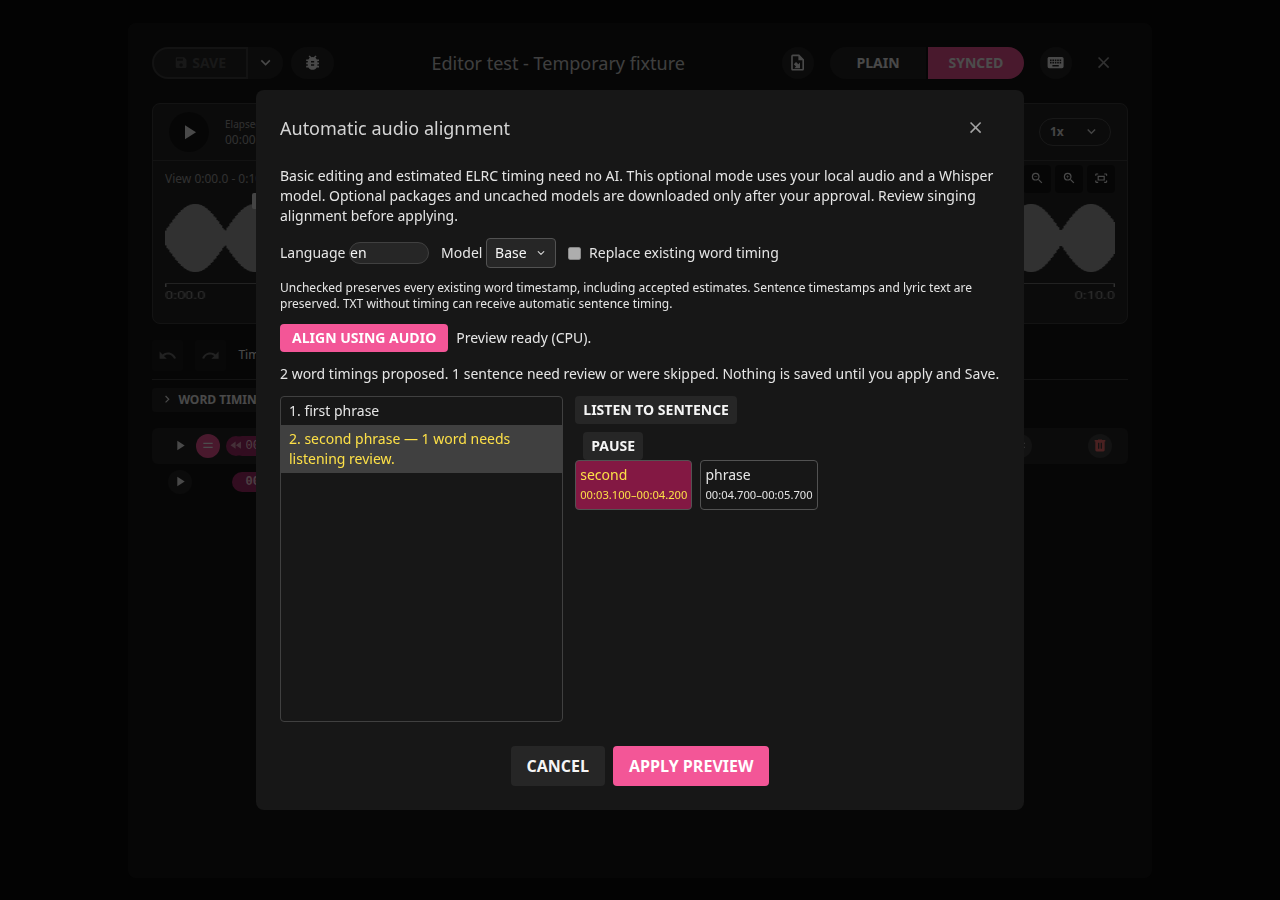
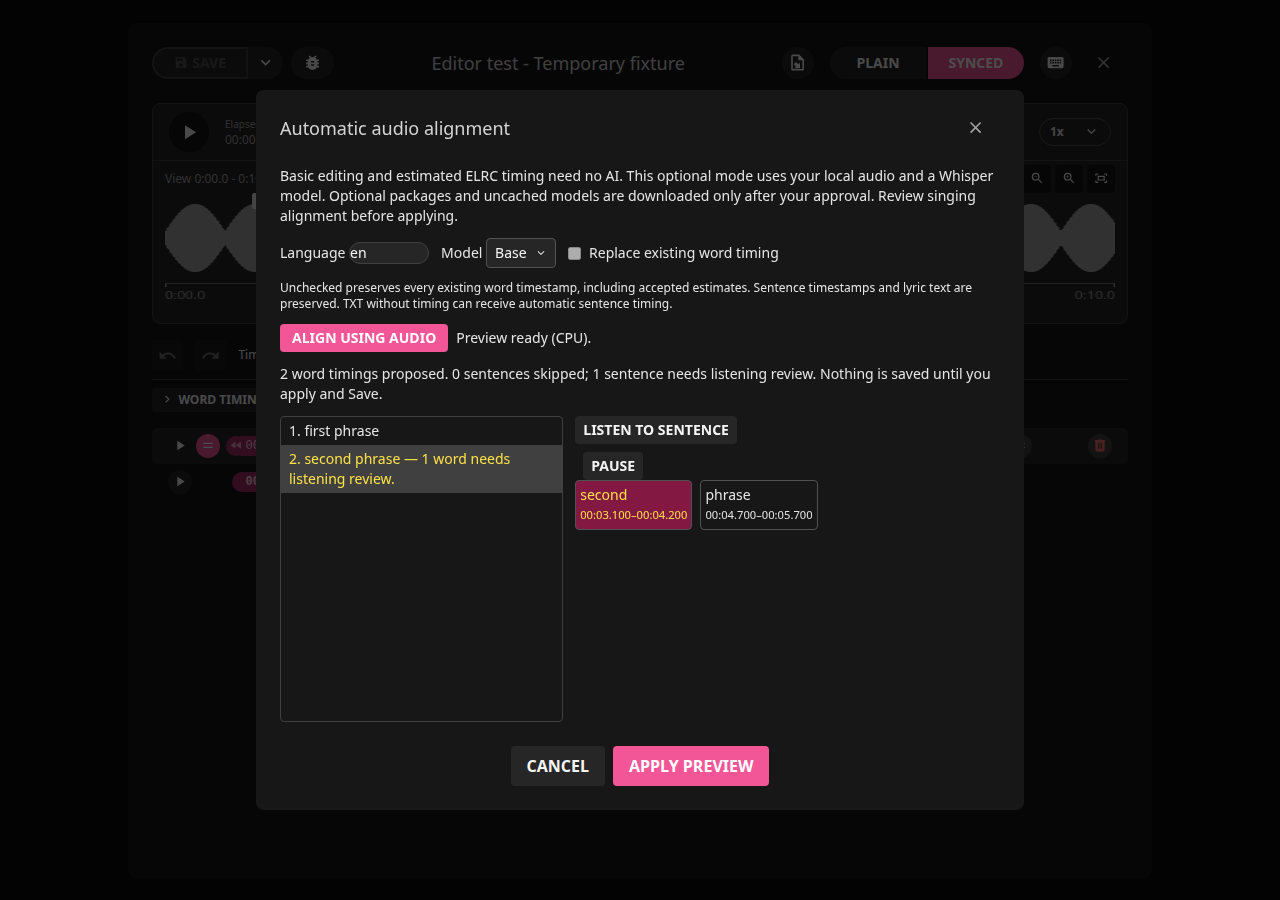
Fix skipped alignment rows and explicit word-end playback after MP3 audit

Changed region(s): [[0.2188, 0.4044, 0.7812, 0.5911]]

diff --git a/src/components/library/edit-lyrics-v2/AudioAlignmentModal.vue b/src/components/library/edit-lyrics-v2/AudioAlignmentModal.vue
@@ -120,10 +120,16 @@
       <p v-if="error" role="alert" class="text-red-700 dark:text-red-300">{{ error }}</p>
       <template v-if="plan">
         <p>
-          {{ plan.changedWords }} word timings proposed. {{ plan.review.length }} sentence{{
-            plan.review.length === 1 ? '' : 's'
+          {{ plan.changedWords }} word timings proposed. {{ skippedCount }} sentence{{
+            skippedCount === 1 ? '' : 's'
           }}
-          need review or were skipped. Nothing is saved until you apply and Save.
+          skipped; {{ reviewCount }} sentence{{ reviewCount === 1 ? '' : 's' }}
+          {{ reviewCount === 1 ? 'needs' : 'need' }} listening review. Nothing is saved until you
+          apply and Save.
+        </p>
+        <p v-if="plan.review.some(item => item.skipped)" class="text-xs">
+          Skipped sentences keep their original timing. Correct them manually or approve estimates
+          when saving ELRC.
         </p>
         <div class="flex gap-3 min-h-0 grow">
           <div
@@ -250,6 +256,8 @@ watch(model, () => {
   consent.value = null
   void checkModel()
 })
+const skippedCount = computed(() => plan.value?.review.filter(item => item.skipped).length || 0)
+const reviewCount = computed(() => plan.value?.review.filter(item => !item.skipped).length || 0)
 const current = computed(() => plan.value?.lines[selected.value])
 const warning = i => plan.value?.review.find(item => item.index === i)
 let job = null,
@@ -291,6 +299,7 @@ const run = async () => {
     error.value = 'Choose local audio first.'
     return
   }
+  const originalLines = structuredClone(lines)
   const id = crypto.randomUUID()
   job = id
   running.value = true
@@ -320,7 +329,7 @@ const run = async () => {
     if (JSON.stringify(props.getSnapshot()) !== JSON.stringify(snapshot))
       throw new Error('Lyrics or audio changed during alignment. Run it again.')
     result.value = output
-    plan.value = mergeAudioAlignment(lines, output, {
+    plan.value = mergeAudioAlignment(originalLines, output, {
       replace: replace.value,
       preventOverlaps: snapshot.overlap,
     })

diff --git a/src/components/library/edit-lyrics-v2/WordPlaybackPreview.test.js b/src/components/library/edit-lyrics-v2/WordPlaybackPreview.test.js
@@ -35,13 +35,13 @@ describe('read-only word playback preview', () => {
     const active = () => state.previewWords.value.filter(word => word.active).map(word => word.text)
     expect(active()).toEqual(['Hello '])
     props.progressMs = 1500
-    expect(active()).toEqual(['Hello '])
+    expect(active()).toEqual([])
     props.progressMs = 2000
     expect(active()).toEqual(['world'])
     props.playing = false
     expect(active()).toEqual(['world'])
     props.progressMs = 2500
-    expect(active()).toEqual(['world'])
+    expect(active()).toEqual([])
     props.progressMs = 3000
     expect(active()).toEqual([])
     props.progressMs = 1100 // Existing Loop seeks back; preview follows the same clock.
@@ -88,15 +88,16 @@ it('matches the sentence row during live start/end edits and marker previews', a
     expect(row.currentWordIndex.value).toBe(index)
   }
   props.progressMs = 1900
-  expectSame(0)
+  expectSame(-1)
   props.line.words[1].start_ms = 1800
   expectSame(1)
   props.line.words[1].end_ms = 1850
-  expectSame(1) // Highlight stays until the next word/sentence boundary.
+  expectSame(-1) // Explicit word ends leave gaps unhighlighted.
   props.line.words[1].start_ms = 2200
-  expectSame(0)
+  expectSame(-1)
   props.previewRange = { startMs: 1950, endMs: 2800 }
   expectSame(-1)
+  props.line.words[1].end_ms = 2500
   props.progressMs = 2300
   expectSame(1)
   props.progressMs = 2800

diff --git a/src/utils/word-playback.test.js b/src/utils/word-playback.test.js
@@ -1,0 +1,37 @@
+import { describe, expect, it } from 'vitest'
+import { activeWordIndex } from './word-playback.js'
+
+describe('explicit word playback ends', () => {
+  const line = {
+    start_ms: 1000,
+    end_ms: 4000,
+    words: [
+      { text: 'one ', start_ms: 1000, end_ms: 1500 },
+      { text: 'two', start_ms: 2000, end_ms: 2500 },
+    ],
+  }
+  it('uses half-open word intervals and does not return an earlier word during silence', () => {
+    for (const [time, expected] of [
+      [999, -1],
+      [1000, 0],
+      [1499, 0],
+      [1500, -1],
+      [1999, -1],
+      [2000, 1],
+      [2499, 1],
+      [2500, -1],
+      [3999, -1],
+    ])
+      expect(activeWordIndex(line, time)).toBe(expected)
+  })
+  it('keeps ordinary LRC words active until the next start or inferred line end', () => {
+    const ordinary = {
+      ...line,
+      end_ms: undefined,
+      words: line.words.map(({ text, start_ms }) => ({ text, start_ms })),
+    }
+    expect(activeWordIndex(ordinary, 1999)).toBe(0)
+    expect(activeWordIndex(ordinary, 3500, { inferredEndMs: 4000 })).toBe(1)
+    expect(activeWordIndex(ordinary, 4000, { inferredEndMs: 4000 })).toBe(-1)
+  })
+})

diff --git a/src/utils/word-playback.js b/src/utils/word-playback.js
@@ -19,11 +19,14 @@ export function isLinePlaybackActive(line, progressMs, options) {
 
 export function activeWordIndex(line, progressMs, options) {
   if (!isLinePlaybackActive(line, progressMs, options) || !Array.isArray(line?.words)) return -1
-  // Scan backwards once: keep the latest timed word until the next start.
+  // Scan backwards once; explicit ends preserve silence until the next start.
   // Missing word starts do not replace already edited timing with an estimate.
   for (let index = line.words.length - 1; index >= 0; index--) {
     const startMs = line.words[index]?.start_ms
-    if (Number.isFinite(startMs) && startMs >= 0 && progressMs >= startMs) return index
+    if (Number.isFinite(startMs) && startMs >= 0 && progressMs >= startMs) {
+      const endMs = line.words[index]?.end_ms
+      return Number.isFinite(endMs) && progressMs >= endMs ? -1 : index
+    }
   }
   return -1
 }

diff --git a/alignment/align_words.py b/alignment/align_words.py
@@ -59,6 +59,37 @@ def remap_words(text, tokens, aligned, offset=0):
     return result
 
 
+def sentence_bounds(line, remaining, duration_ms):
+    start = line.get("start_ms")
+    end = line.get("end_ms")
+    if end is None:
+        end = next(
+            (
+                other["start_ms"]
+                for other in remaining
+                if other.get("start_ms") is not None
+            ),
+            duration_ms,
+        )
+    if (
+        type(start) is not int
+        or type(end) is not int
+        or not 0 <= start < end <= duration_ms
+    ):
+        raise ValueError("Sentence boundaries are outside the audio")
+    return start, end
+
+
+def aligned_words(result):
+    if result is None:
+        raise ValueError(
+            "This sentence could not be aligned; review its lyrics and audio bounds"
+        )
+    return [
+        word for segment in result.to_dict()["segments"] for word in segment["words"]
+    ]
+
+
 def main():
     if "--check" in sys.argv:
         available = all(
@@ -144,18 +175,7 @@ def main():
                 aligned = segment["words"]
                 offset = 0
             else:
-                start = line["start_ms"]
-                next_start = next(
-                    (
-                        other["start_ms"]
-                        for other in lines[index + 1 :]
-                        if other.get("start_ms") is not None
-                    ),
-                    duration_ms,
-                )
-                end = line.get("end_ms") or next_start
-                if not 0 <= start < end <= duration_ms:
-                    raise ValueError("Sentence boundaries are outside the audio")
+                start, end = sentence_bounds(line, lines[index + 1 :], duration_ms)
                 with contextlib.redirect_stdout(sys.stderr):
                     result = model.align_words(
                         audio[start * 16 : end * 16],
@@ -172,11 +192,7 @@ def main():
                         verbose=None,
                         suppress_silence=False,
                     )
-                aligned = [
-                    word
-                    for segment in result.to_dict()["segments"]
-                    for word in segment["words"]
-                ]
+                aligned = aligned_words(result)
                 offset = start / 1000
                 candidate["start_ms"], candidate["end_ms"] = start, end
             candidate["words"] = remap_words(line["text"], tokens, aligned, offset)

diff --git a/alignment/test_align_words.py b/alignment/test_align_words.py
@@ -2,7 +2,7 @@
 
 import unittest
 
-from align_words import remap_words
+from align_words import aligned_words, remap_words, sentence_bounds
 
 
 class MappingTests(unittest.TestCase):
@@ -34,6 +34,34 @@ class MappingTests(unittest.TestCase):
         )
         self.assertEqual(result[0]["start_ms"], 200)
         self.assertIsNone(result[0]["confidence"])
+
+
+class BoundsTests(unittest.TestCase):
+    def test_explicit_zero_end_is_invalid_instead_of_treated_as_missing(self):
+        with self.assertRaisesRegex(ValueError, "boundaries"):
+            sentence_bounds({"start_ms": 1000, "end_ms": 0}, [{"start_ms": 3000}], 5000)
+
+    def test_missing_end_uses_next_sentence_or_audio_duration(self):
+        self.assertEqual(
+            sentence_bounds({"start_ms": 1000}, [{"start_ms": 3000}], 5000),
+            (1000, 3000),
+        )
+        self.assertEqual(sentence_bounds({"start_ms": 3000}, [], 5000), (3000, 5000))
+
+    def test_invalid_or_non_integer_bounds_are_skipped(self):
+        for start, end in [
+            (True, 2000),
+            (1000.5, 2000),
+            (-1, 2000),
+            (2000, 2000),
+            (1000, 6000),
+        ]:
+            with self.assertRaisesRegex(ValueError, "boundaries"):
+                sentence_bounds({"start_ms": start, "end_ms": end}, [], 5000)
+
+    def test_no_sentence_result_becomes_a_reviewable_error(self):
+        with self.assertRaisesRegex(ValueError, "sentence could not be aligned"):
+            aligned_words(None)
 
 
 if __name__ == "__main__":

diff --git a/docs/reviews/2.2.7.md b/docs/reviews/2.2.7.md
@@ -394,3 +394,47 @@ No real large model/dependency download or Windows/AppImage installer validation
 was performed by this mock audit. Those held platform builds require their own
 installation/security/upgrade/cancellation tests. GitHub and creator notifications
 remain held. Version remains 2.2.7 and the new Debian needs an explicit reinstall.
+
+## Real full-song word alignment audit — version unchanged
+
+Real CPU/Base alignment on a temporary Last Breath MP3 with complete original LRC
+used 53 rows (49 lyric sentences and four gap cues). It produced 258 valid aligned
+words across 39 lyric sentences; ten ranges were rejected safely. Accepted model
+words still have uncertainty flags and need listening review. Full untimed TXT
+alignment produced valid proposals for 39 sentences/289 tokens with ten rejected.
+Two manual word anchors were preserved while other timing was proposed.
+
+Found/fixed preparation tokens leaking into skipped rows when applying a preview.
+The merge now receives a snapshot taken before tokenization. Preview counts
+separate skipped rows from uncertain accepted rows and explain correction/ELRC
+estimate choices. A direct native ELRC export before the normal estimate-approval
+step initially rejected incomplete prepared timing. Retesting through the editor's
+actual estimate preparation succeeded for all TXT/LRC/ELRC selections, with ten
+explicitly approved estimate rows. No implicit estimate acceptance was added.
+
+Found/fixed editor highlighting ignoring explicit word ends, causing different
+word activation after ELRC reimport. Shared playback now honors those ends and
+leaves silence unhighlighted, retaining next-start fallback for start-only LRC.
+Boundary probes before/at/after every saved word start/end matched reopened ELRC.
+Sentence text/start markers and ordinary LRC/TXT text stayed intact. MP3 and both
+original user sidecar SHA256 values were unchanged. No live user database changed.
+Guarded explicit zero/non-integer/out-of-audio ends and missing engine sentence
+results so they become review skips rather than replaced boundaries/batch errors.
+
+543 frontend tests, 87 native tests (two existing optional fixtures ignored), and
+17 Python tests passed. Ruff, scoped ESLint, cargo check and Debian build passed;
+existing dependency/build warnings remain. Real Vue tests cover skipped rows
+keeping no preparation tokens through Apply/Save, no repeated estimates on fully
+aligned saves, cancellation, protected timing, Undo/Redo, both themes, explicit
+word-end gaps, live edits, waveform markers, zoom, word/sentence loops and Pause.
+The browser loop fixture was updated to model the current native loop command;
+an outdated fixture initially allowed a cursor past its loop boundary. It was a
+test setup mismatch, not a production loop defect. Normal estimated ELRC export,
+Cancel and publish dry-run regressions also passed; no public lyrics were uploaded.
+Fresh preview/skipped/silence screenshots and complete guides are included.
+
+Final Debian payload startup, identity and 18-guide references passed. Singing
+accuracy is not guaranteed; skipped/uncertain proposals still need review. CUDA
+and held Windows/AppImage installers were not tested. Version remains 2.2.7;
+GitHub publishing/creator notifications remain held. The latest Debian requires
+a password-authenticated explicit reinstall to update the installed copy.

diff --git a/docs/audio-alignment.md b/docs/audio-alignment.md
@@ -169,3 +169,36 @@ These Debian checks do not establish Windows or AppImage installation success.
 Those builds require their own platform-specific failure and installer tests when
 work on them resumes, including administrator/security restrictions and safe
 recovery from interrupted setup.
+
+### Full-song MP3 validation and skipped sentences
+
+A real CPU/Base test on a temporary copy of Nevertel's Last Breath aligned 258
+words across 39 of 49 lyric sentences using the existing LRC bounds. Ten sentences
+were safely skipped because their proposed ranges were invalid; low-confidence
+words on accepted sentences still need listening review. Complete untimed TXT
+also returned proposals for 39 sentences, with ten rejected. This demonstrates
+working alignment and validation, not guaranteed singing accuracy.
+
+The preview separates **skipped** sentence counts from sentences needing listening
+review. Skipped sentences retain their original document data; temporary word
+segmentation cannot become saved untimed word entries merely by applying a preview.
+When ELRC is selected, the normal save workflow offers explicit estimate approval
+for missing word timing. Declining keeps the project unchanged. Estimates preserve
+accepted/manual timestamps and are not labelled audio-derived results.
+
+Sentence rows, Word preview and automatic preview now clear highlighting at an
+explicit saved word end. Silence stays unhighlighted until the next word starts.
+Without a word end, ordinary start-only timing continues to use the next start or
+sentence end. Both themes, loop rewinds, pause, zoom and live timing edits use the
+same rules. MP3/TXT/LRC/ELRC originals remained unchanged in the test; native exports
+on the copy retained lyric text, ordinary sentence times and reimported word
+highlight boundaries. Two independently edited word anchors were also preserved.
+
+![Skipped sentence preview, light](screenshots/current/audio-alignment-skipped-light.png)
+![Skipped sentence preview, dark](screenshots/current/audio-alignment-skipped-dark.png)
+![Word preview during silence, light](screenshots/current/word-preview-silence-light.png)
+![Word preview during silence, dark](screenshots/current/word-preview-silence-dark.png)
+
+An engine result missing a sentence becomes a reviewable skip rather than failing
+the whole alignment. Explicit invalid end times (including zero) are rejected;
+they are never treated as absent and replaced with another sentence's start.

diff --git a/docs/editing-guide.md b/docs/editing-guide.md
@@ -534,11 +534,12 @@ Sources: [Jellyfin LRC parser](https://github.com/jellyfin/jellyfin/blob/v10.11.
 5. Turn off Word preview to hide it. No timestamps change and nothing is saved or
    exported by this toggle. Preview state lasts for this editor session.
 
-Like the sentence timeline, Word preview holds the current word highlight until
-the next timed word starts, then clears at the sentence end (including waveform
-marker previews). Word end values remain unchanged for timing edits, looping and
-export. Actual word starts are used even when the sentence end is inferred from
-the next sentence. Partial timing keeps existing starts; untimed words stay
+Like the sentence timeline and automatic alignment preview, Word preview uses
+actual word starts and explicit ends. It clears at a saved word end, leaving
+silence unhighlighted until the next word begins. Without an explicit word end,
+the highlight continues until the next timed word or sentence end (including
+waveform marker previews). Timing values remain unchanged by playback. Sentence
+ends may still be inferred from the next sentence. Partial timing keeps existing starts; untimed words stay
 unhighlighted. With no word timing, preview labels its evenly spaced estimate;
 it cannot infer actual singing.
 To create accurate word timing, expand Word timing and use Sync word against

diff --git a/docs/how-to.md b/docs/how-to.md
@@ -401,11 +401,12 @@ Sources: [Jellyfin LRC parser](https://github.com/jellyfin/jellyfin/blob/v10.11.
 5. Turn off Word preview to hide it. No timestamps change and nothing is saved or
    exported by this toggle. Preview state lasts for this editor session.
 
-Like the sentence timeline, Word preview holds the current word highlight until
-the next timed word starts, then clears at the sentence end (including waveform
-marker previews). Word end values remain unchanged for timing edits, looping and
-export. Actual word starts are used even when the sentence end is inferred from
-the next sentence. Partial timing keeps existing starts; untimed words stay
+Like the sentence timeline and automatic alignment preview, Word preview uses
+actual word starts and explicit ends. It clears at a saved word end, leaving
+silence unhighlighted until the next word begins. Without an explicit word end,
+the highlight continues until the next timed word or sentence end (including
+waveform marker previews). Timing values remain unchanged by playback. Sentence
+ends may still be inferred from the next sentence. Partial timing keeps existing starts; untimed words stay
 unhighlighted. With no word timing, preview labels its evenly spaced estimate;
 it cannot infer actual singing.
 To create accurate word timing, expand Word timing and use Sync word against

diff --git a/src/ARCHITECTURE.md b/src/ARCHITECTURE.md
@@ -527,3 +527,12 @@ Audio alignment progress subscription is checked separately from dependency/mode
 availability. Notification failure produces a warning without disabling a ready
 engine or implicitly triggering installation. Backend installation repair uses
 private staging even when broken package versions are visible from shared sites.
+
+AudioAlignmentModal retains an original row snapshot before worker tokenization;
+merge/skip uses that snapshot, preventing temporary untimed tokens from becoming
+saved data. Preview counts separate skipped rows from listening warnings. Shared
+activeWordIndex now honors explicit word ends with half-open intervals and returns
+no earlier word during gaps. Missing ends retain next-start/line-end behavior.
+Sentence rows, read-only Word preview and alignment preview share that clock.
+The existing explicit estimate-approval export workflow completes skipped timed
+sentences only after approval; no audio-derived result is silently invented.

diff --git a/LOCAL_CHANGES.md b/LOCAL_CHANGES.md
@@ -639,3 +639,11 @@ instead of allowing pip to skip them because their version is already visible.
 A failed live-progress subscription no longer prevents installed-engine detection.
 No-consent, decline/reopen, missing ffmpeg/venv, disk-space, corrupted download,
 model approval, cancellation and theme mock tests passed; Python coverage is 13 tests.
+
+Real full-song audio alignment audit: temporary Last Breath MP3, CPU/Base, 49 lyric
+sentences; 39 valid proposals/258 aligned words, ten skipped ranges requiring
+manual correction or explicit ELRC estimates. Native selected-format exports and
+boundary highlighting after reimport passed; original hashes unchanged. Preserve
+skipped row data before tokenization, guard missing sentence results and explicit
+invalid ends, and honor word-end gaps in shared editor playback. TXT full-song
+alignment and two protected manual anchors were also validated.
